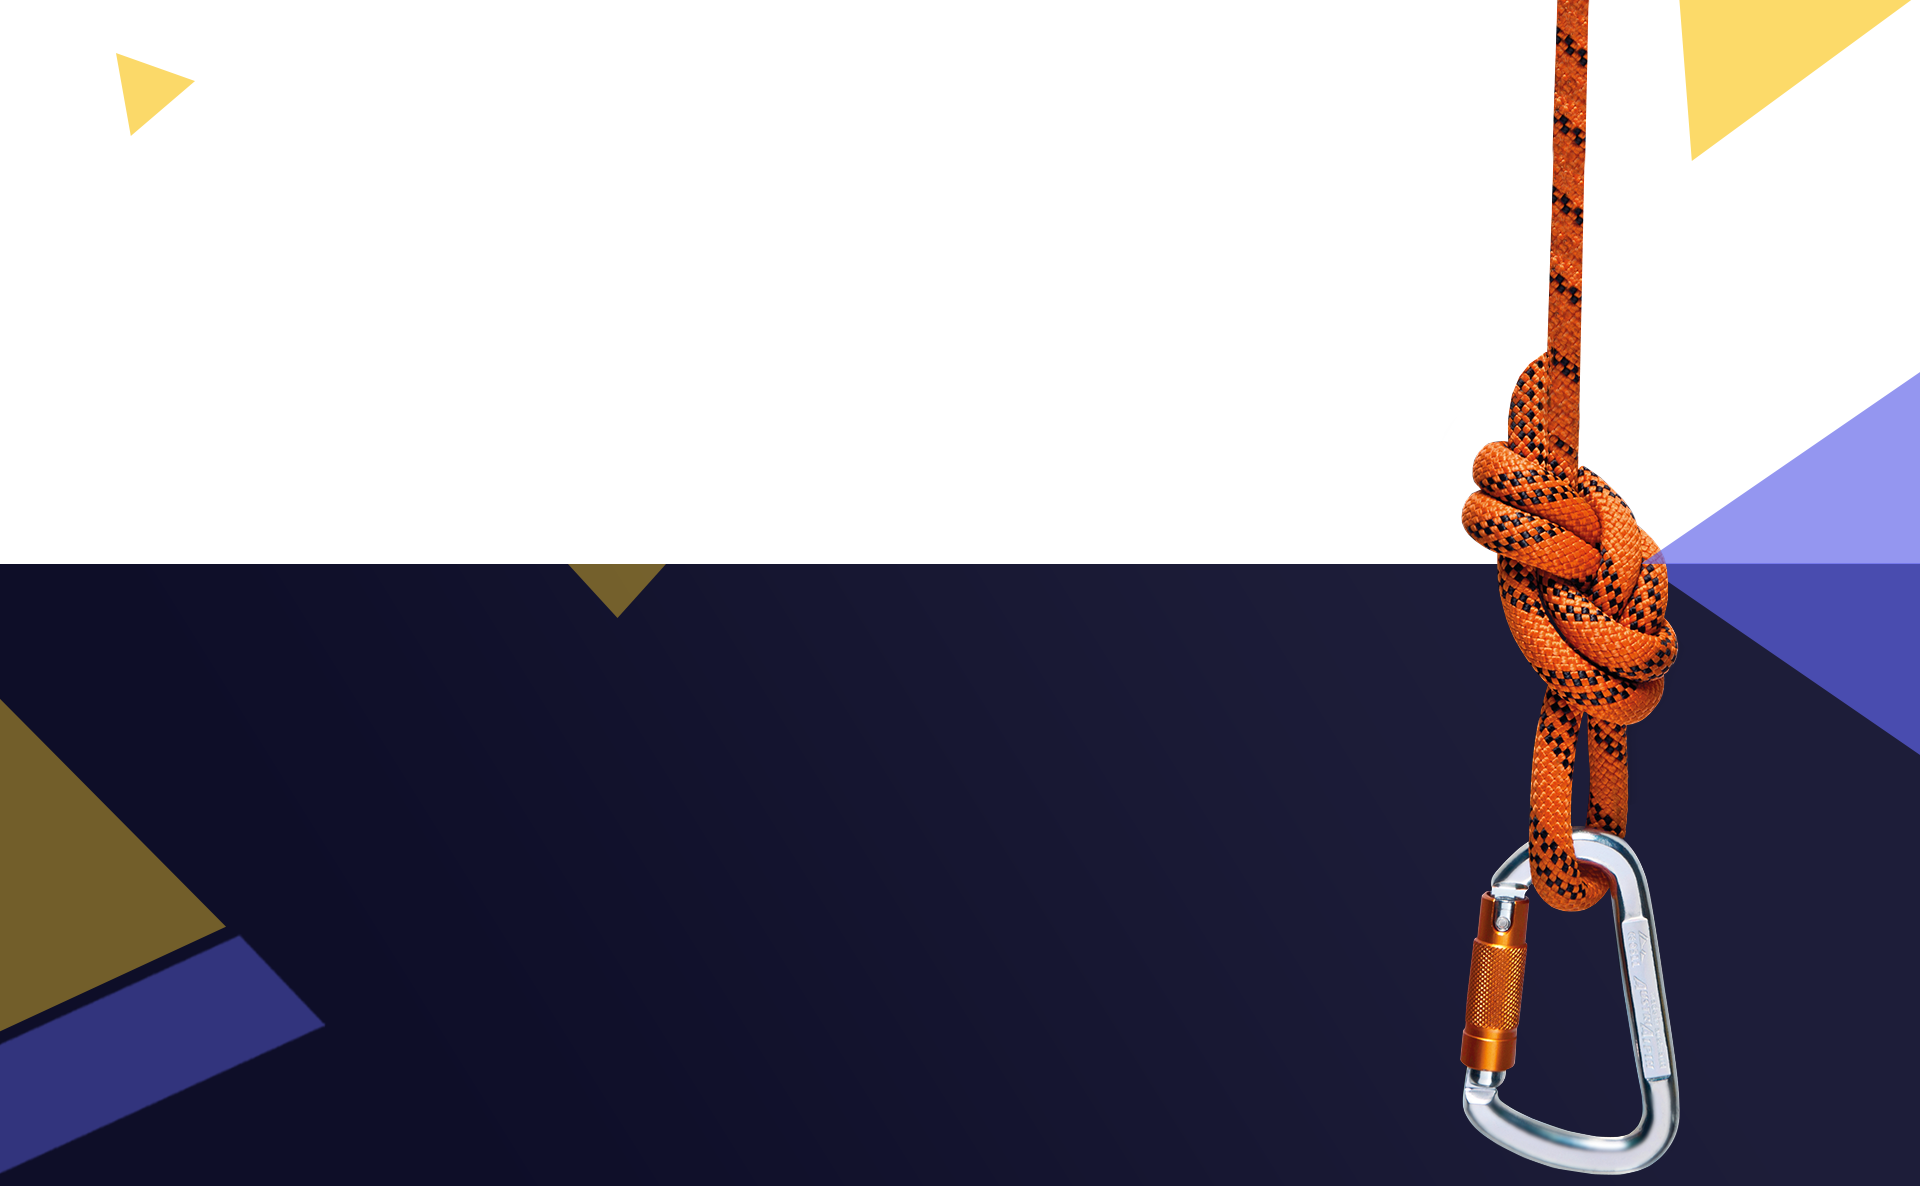
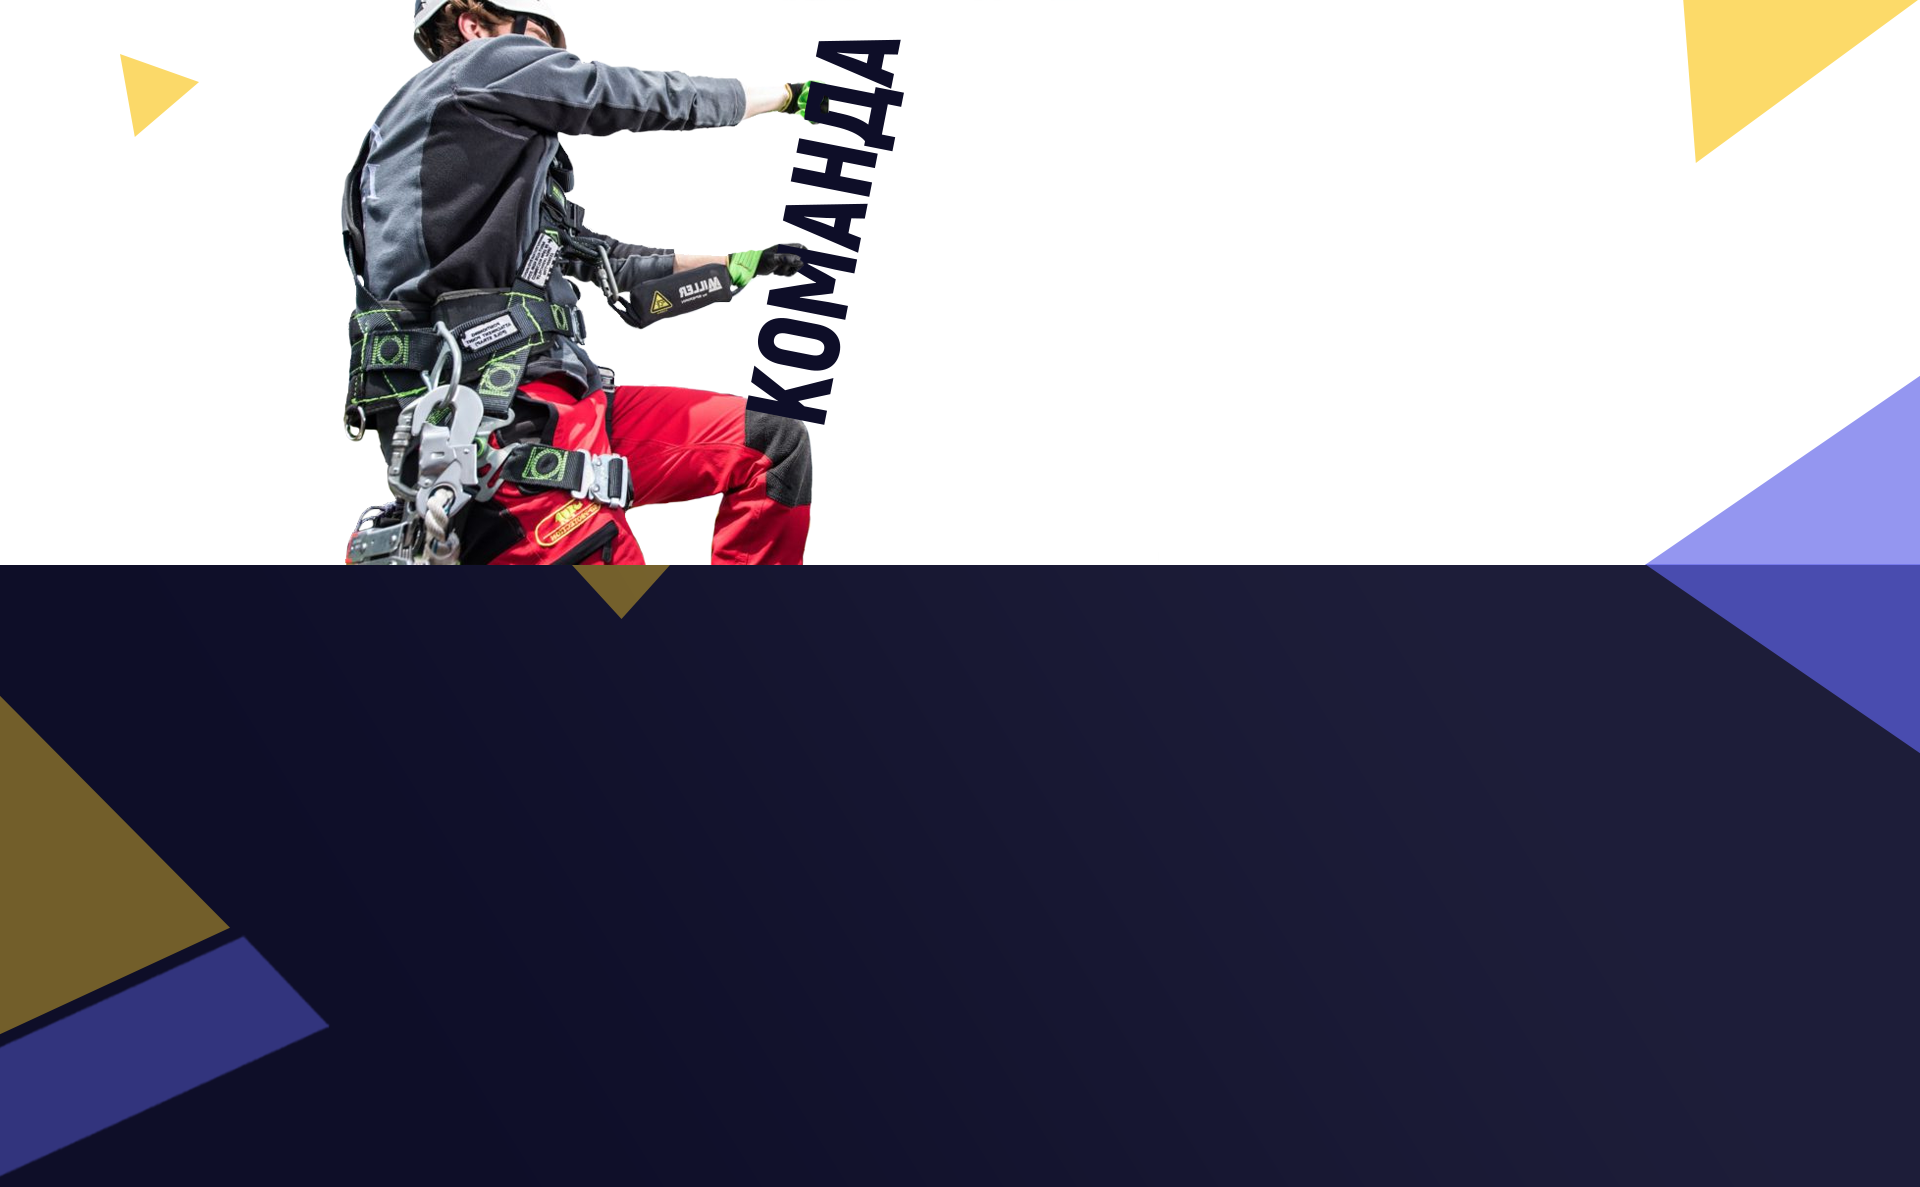
Finished Page 2

diff --git a/src/app/app.component.html b/src/app/app.component.html
@@ -1,19 +1,19 @@
 <div class="page-1"></div>
 <div id="page-1">
   <div class="container row">
-    <div class="nav-bar col-md-12">
+    <div class="nav-bar">
       <ul class="lang">
-        <li class="active">Рус
+        <li class="active button" [ngClass]="{'active': isClicked}">Рус
         </li>
-        <li>Укр</li>
+        <li class="button" [ngClass]="{'active': isClicked}">Укр</li>
       </ul>
       <ul class="menu">
-        <li><a href="#page2">Контакты</a></li>
-        <li (click)="click()">FAQ</li>
-        <li>Прайс</li>
-        <li>Услуги</li>
-        <li>О нас</li>
-        <li class="active">Главная</li>
+        <li class="button"><a href="#page2" (click)="scroll(page-2)">Контакты</a></li>
+        <li class="button"><a href="#page3">FAQ</a></li>
+        <li class="button"><a href="#page4">Прайс</a></li>
+        <li class="button"><a href="#page5">Услуги</a></li>
+        <li class="button"><a href="#page6">О нас</a></li>
+        <li class="active button"><a href="#page1">Главная</a></li>
       </ul>
     </div>
     <div class="center-logo">
@@ -25,6 +25,24 @@
   </div>
 </div>
 <div class="page-2"></div>
-<div id="page2">
-
+<div id="page2" page-2>
+  <div class="container row">
+    <div class="col-md-6"></div>
+    <div class="text-block col-md-6">
+      <h3>Компания «Днепр-АльпПром»</h3>
+      <h4>команда профессионалов, выполняющая все
+        виды высотных работ!
+      </h4>
+      <p>Мы оказываем любые услуги в области промышленного
+        альпинизма бизнесу, государственным и коммунальным
+        предприятиям, ОСМД (ОСББ), а также частным лицам.
+      </p>
+      <p>Наша специализация — это сложные высотные работы,
+        требующие не только альпинистской техники, но и
+        строительно-монтажного опыта, пескоструйным и
+        другими специфическим аппаратами.
+      </p>
+      <div class="active button"><a href="#page5">Связаться с нами</a></div>
+    </div>
+  </div>
 </div>

diff --git a/src/styles.css b/src/styles.css
@@ -2,30 +2,49 @@ body {
   margin: 0;
   font-family: 'DejaVu Sans';
 }
+
+.text-right {
+  text-align: right;
+}
+
+.float-right {
+  float: right;
+}
+
+a {
+  text-decoration: none;
+  text-transform: none;
+  color: white !important;
+}
+
 @font-face {
   font-family: 'DejaVu Sans';
   src: local('DejaVu Sans ExtraLight'), local('DejaVuSans-ExtraLight'), url('./assets/fonts/dejevu/dejavusansextralight.woff2') format('woff2'), url('./assets/fonts/dejevu/dejavusansextralight.woff') format('woff'), url('./assets/fonts/dejevu/dejavusansextralight.ttf') format('truetype');
   font-weight: 200;
   font-style: normal;
 }
+
 @font-face {
   font-family: 'DejaVu Sans';
   src: local('DejaVu Sans'), local('DejaVuSans'), url('./assets/fonts/dejevu/dejavusans.woff2') format('woff2'), url('./assets/fonts/dejevu/dejavusans.woff') format('woff'), url('./assets/fonts/dejevu/dejavusans.ttf') format('truetype');
   font-weight: 400;
   font-style: normal;
 }
+
 @font-face {
   font-family: 'DejaVu Sans Oblique';
   src: local('DejaVu Sans Oblique'), local('DejaVuSans-Oblique'), url('./assets/fonts/dejevu/dejavusansoblique.woff2') format('woff2'), url('./assets/fonts/dejevu/dejavusansoblique.woff') format('woff'), url('./assets/fonts/dejevu/dejavusansoblique.ttf') format('truetype');
   font-weight: 400;
   font-style: italic;
 }
+
 @font-face {
   font-family: 'DejaVu Sans';
   src: local('DejaVu Sans Bold'), local('DejaVuSans-Bold'), url('./assets/fonts/dejevu/dejavusansbold.woff2') format('woff2'), url('./assets/fonts/dejevu/dejavusansbold.woff') format('woff'), url('./assets/fonts/dejevu/dejavusansbold.ttf') format('truetype');
   font-weight: 700;
   font-style: normal;
 }
+
 @font-face {
   font-family: 'DejaVu Sans';
   src: local('DejaVu Sans Bold Oblique'), local('DejaVuSans-BoldOblique'), url('./assets/fonts/dejevu/dejavusansboldoblique.woff2') format('woff2'), url('./assets/fonts/dejevu/dejavusansboldoblique.woff') format('woff'), url('./assets/fonts/dejevu/dejavusansboldoblique.ttf') format('truetype');

diff --git a/src/app/app.component.css b/src/app/app.component.css
@@ -51,28 +51,23 @@
   float: left;
   list-style: none;
   color: white;
+  display: inline-block;
+  padding: 0 7px;
+  position: relative;
+  margin: 0 2px;
 }
 
-.menu li {
+.button {
+  height: 26px;
+  line-height: 26px;
+  text-align: center;
+}
+
+.menu .button {
   width: 87px;
 }
 
-.menu li a{
-  text-decoration: none;
-  text-transform: none;
-  color: white;
-}
-
-li {
-  display: inline-block;
-  padding: 0 7px;
-  height: 26px;
-  position: relative;
-  margin: 0 2px;
-  line-height: 26px;
-}
-
-li::after {
+.button::after, .button::after {
    content: '';
    position: absolute;
    top: 0;
@@ -84,7 +79,8 @@ li::after {
    z-index: -1;
 }
 
-li.active::after {
+.button.active::after,
+.button.active::after {
   background-color: #fbc821;
 }
 .center-logo {
@@ -118,4 +114,19 @@ li.active::after {
   background: url("../assets/img/background-2.png") no-repeat;
   background-size: 100%;
   text-align: center;
+}
+
+.text-block {
+  padding: 0 90px 0 0;
+  text-align: right;
+}
+
+.text-block h3, .text-block h4 {
+  font-weight: bold;
+}
+
+.text-block .button {
+  width: 150px;
+  position: relative;
+  float: right;
 }

diff --git a/src/app/app.component.ts b/src/app/app.component.ts
@@ -6,7 +6,12 @@ import { Component } from '@angular/core';
   styleUrls: ['./app.component.css']
 })
 export class AppComponent {
-  click() {
-    console.log('asd');
+  isClicked = true;
+  toggleState() {
+    this.isClicked = !this.isClicked;
+  }
+
+  scroll(el: HTMLElement) {
+    el.scrollIntoView({behavior: "smooth", block: "end", inline: "nearest"});
   }
 }
